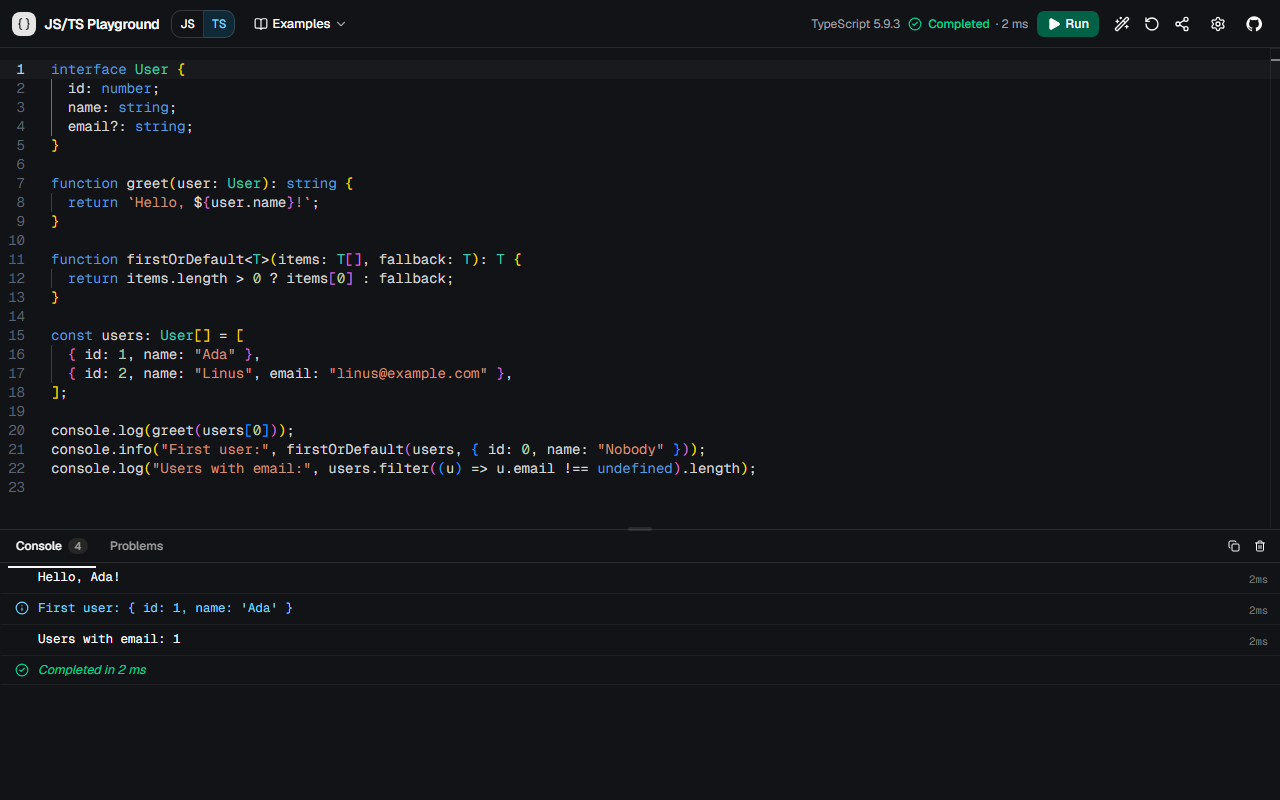
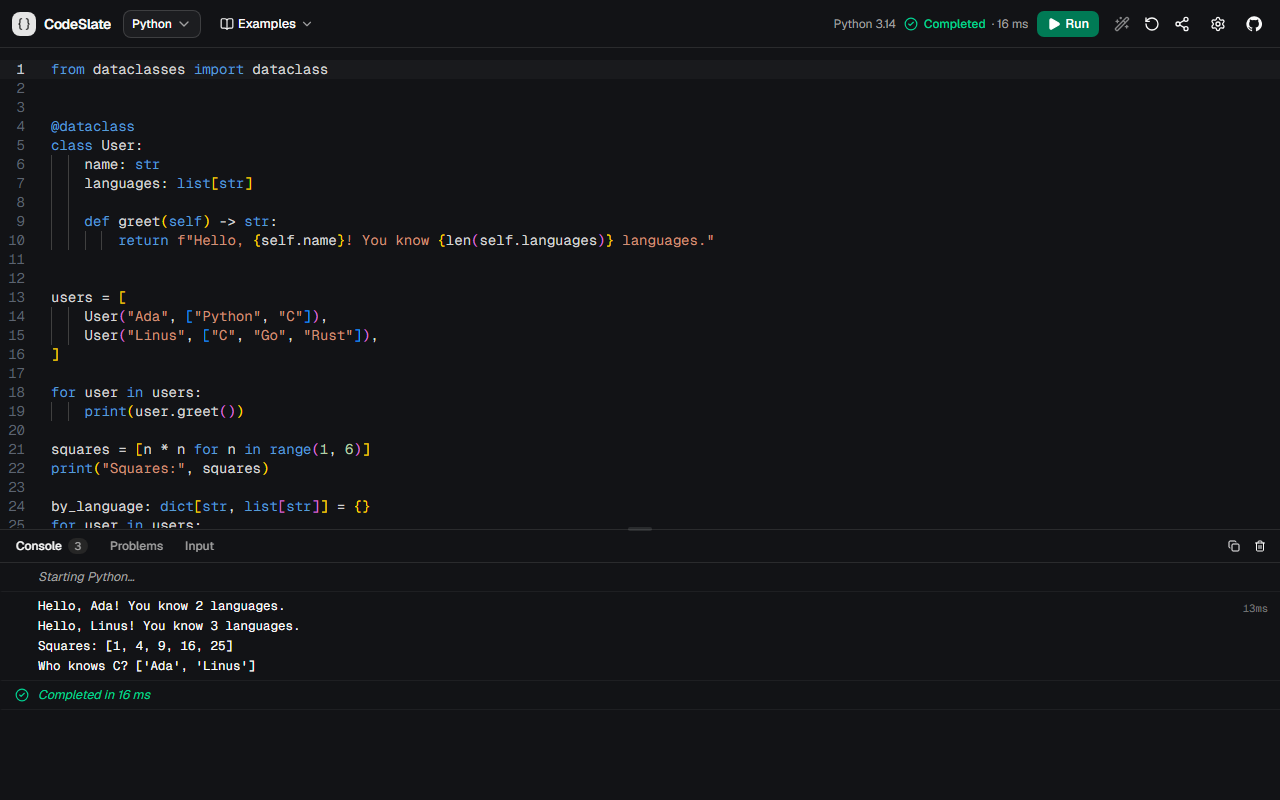
docs: re-record the screenshot and demo GIF as CodeSlate
- [x] playground.png: the Python example after a run, with the new name
- [x] demo.gif: home page, the ten-language menu, a Clang error listed
      in Problems, the fixed C program running, Python, and sharing
- [x] Update the README's image descriptions

diff --git a/README.md b/README.md
@@ -21,11 +21,11 @@ links and saved drafts still work. The display name is `SITE_NAME` in
 · [Open the editor](https://js-ts-playground-eight.vercel.app/playground)
 · [Examples](https://js-ts-playground-eight.vercel.app/examples)
 
-![The playground running a TypeScript example: code in the editor, and the console below showing its output and "Completed in 2 ms"](docs/images/playground.png)
+![CodeSlate running a Python example: code in the editor, and the console below showing its output and "Completed in 16 ms"](docs/images/playground.png)
 
 ## Demo
 
-![Demo: from the home page, Start Coding opens the editor; a line with a type error is underlined and listed in the Problems panel; after the fix the code runs and a share link is copied](docs/images/demo.gif)
+![Demo: from the home page, Start Coding opens the editor; the language menu lists all ten languages; in C, a missing semicolon is underlined by Clang and listed in the Problems panel; after the fix the program compiles and runs, then a Python example runs and a share link is copied](docs/images/demo.gif)
 
 ## Features
 
